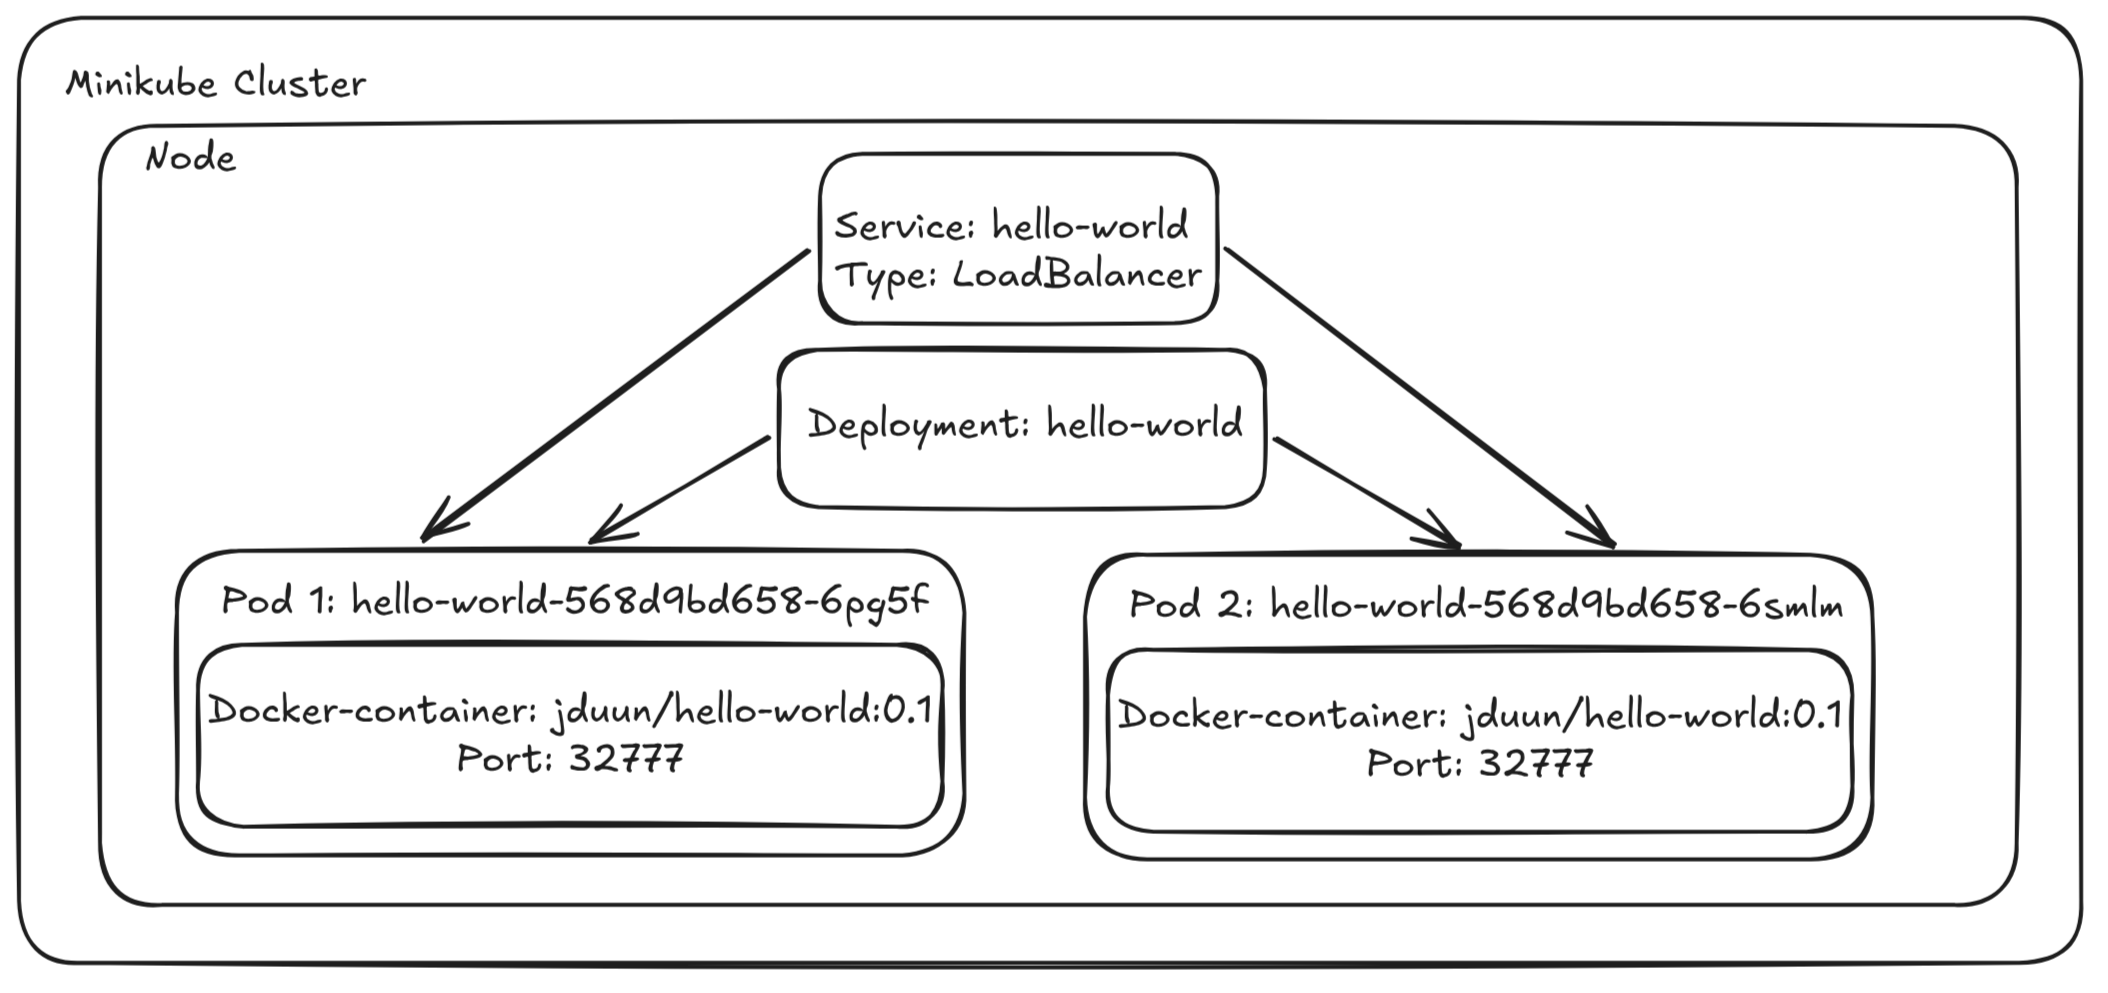
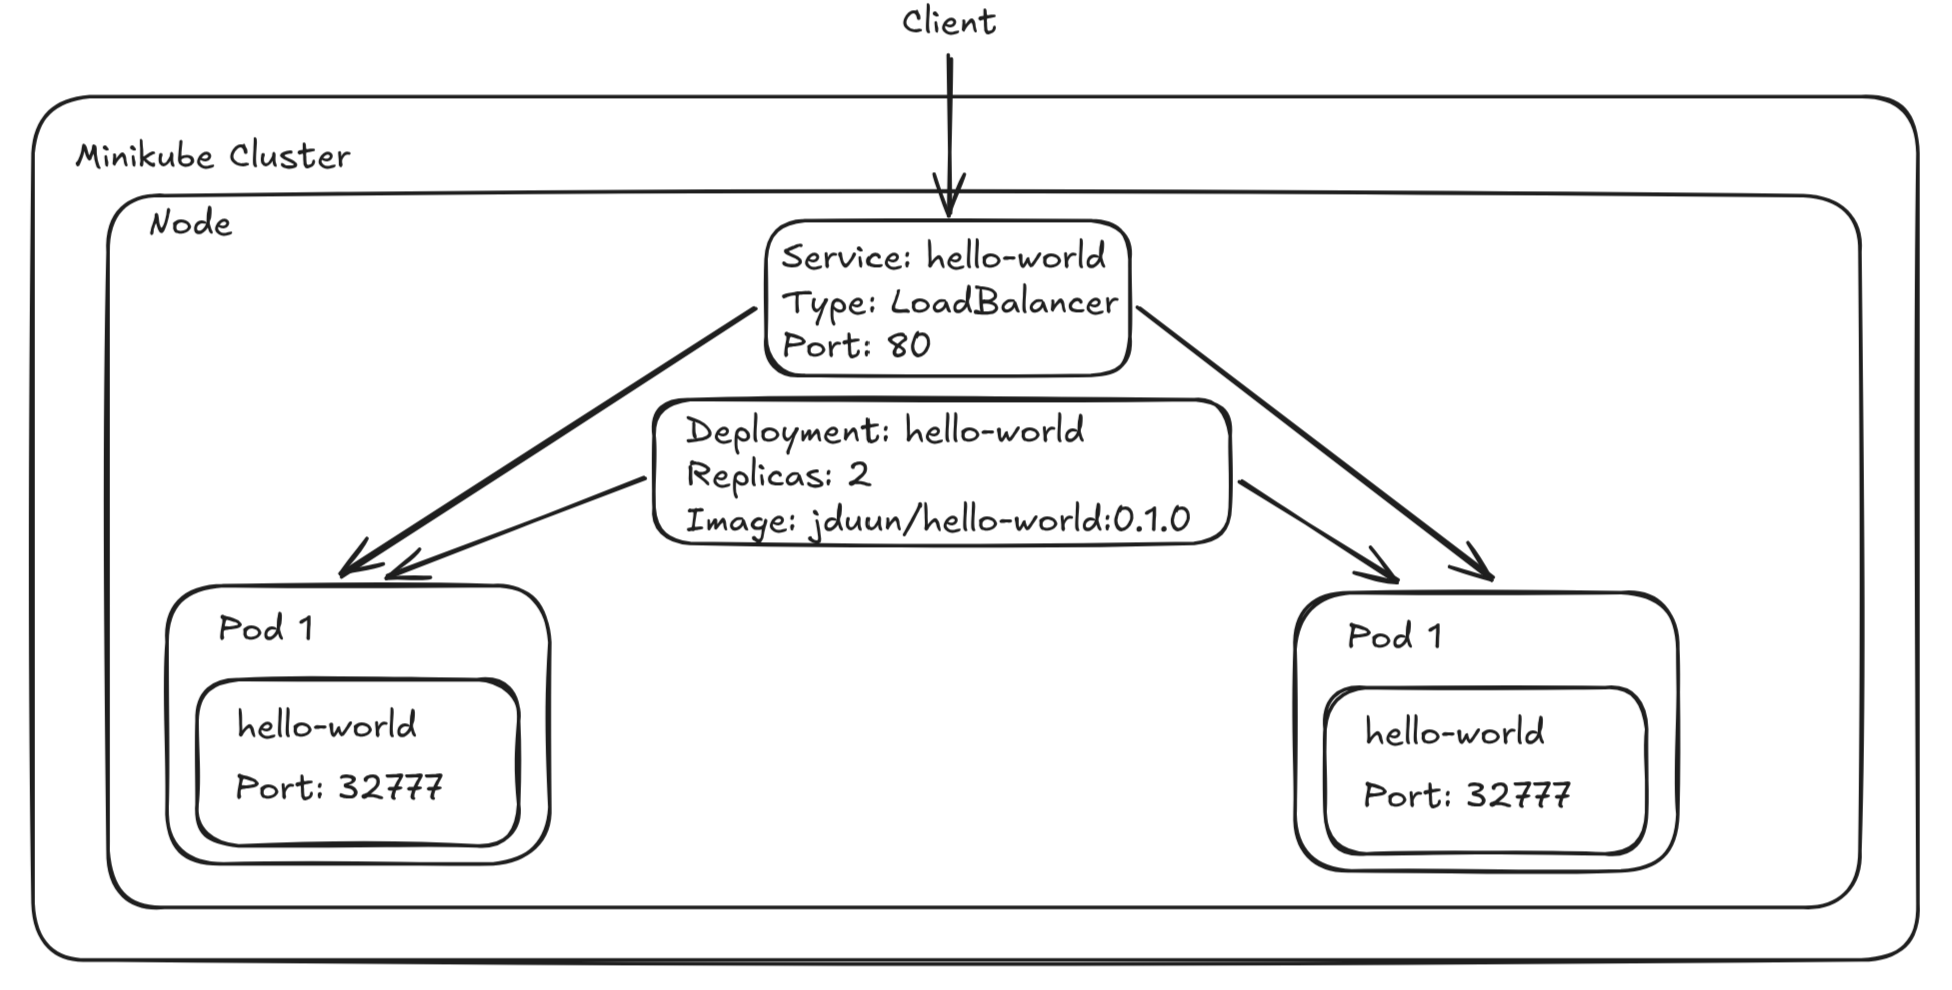
add: helm chart

diff --git a/main.go b/main.go
@@ -20,6 +20,15 @@ func main() {
 		})
 	}).Methods(http.MethodGet)
 
+	app.HandleFunc("/ready", func(w http.ResponseWriter, r *http.Request) {
+		w.Header().Set("Content-Type", "application/json")
+		w.WriteHeader(http.StatusOK)
+
+		_ = json.NewEncoder(w).Encode(map[string]string{
+			"status": "ok",
+		})
+	}).Methods(http.MethodGet)
+
 	app.HandleFunc("/health", func(w http.ResponseWriter, r *http.Request) {
 		w.Header().Set("Content-Type", "application/json")
 		w.WriteHeader(http.StatusOK)

diff --git a/README.md b/README.md
@@ -1,53 +1,116 @@
 # devops-lab
 
-Поднимем простой веб-сервис в Minikube кластере с 2 репликами. Docker-образ приложения на Docker Hub: https://hub.docker.com/r/jduun/hello-world.
+Поднимем `hello-world` сервис на Go в Minikube кластере с 2 репликами.
+
+## Docker-образ
+Docker-образ сервиса: https://hub.docker.com/r/jduun/hello-world.
+
+### Сборка
+```sh
+docker build --no-cache -t jduun/hello-world:0.1.0 .
+```
+
+### Публикация
+```sh
+docker login
+docker push jduun/hello-world:0.1.0
+```
+
+
+### Проверка на уязвимости
+```sh
+trivy image jduun/hello-world:0.1@sha256:1353ad931a4160a5d8047eff165545b75145628b26f0e4d7ecfa58bfa660bd42
+```
+
+## API приложения
+
+### `GET /`
+#### Описание
+Основной эндпоинт сервиса.
+
+#### Ответ
+Статус: `200 OK`
+
+```json
+{
+  "message": "Hello World"
+}
+```
+
+### `GET /ready`
+#### Описание
+Проверка готовности сервиса.
+
+#### Ответ
+Статус: `200 OK`
+
+```json
+{
+  "status": "ok"
+}
+```
+
+
+### `GET /health`
+#### Описание
+Проверка работоспособности приложения.
+
+#### Ответ
+Статус: `200 OK`
+
+```json
+{
+  "status": "ok"
+}
+```
 
 ## Запуск в Minikube
 
-### 1. Запуск Minikube кластера
+### Запуск Minikube кластера
 ```sh
 minikube start
 ```
 
-### 2. Фикс проблемы с DNS
+### Просмотр сгенерированных манифестов
 ```sh
-minikube ssh -- "sudo sh -c 'printf \"nameserver 1.1.1.1\nnameserver 8.8.8.8\n\" > /etc/resolv.conf'"
+helm template prod ./charts/hello-world
 ```
 
-### 3. Применяем манифесты
+### Установка Helm chart
 ```sh
-kubectl apply -f k8s/
+helm upgrade --install prod ./charts/hello-world
 ```
 
-### 4. Проверяем установку
+### Проверяем установку
 ```sh
 kubectl get deploy,pods,svc
 ```
 
-### 5. Проброс портов
+### Проброс портов
 ```sh
 minikube tunnel
 ```
 
-### 6. Получаем `EXTERNAL-IP`  
+### Получаем `EXTERNAL-IP`
 ```sh
-kubectl get svc hello-world
+kubectl get svc prod-hello-world
 ```
 
-### 7. Запрос к сервису
+### Запрос к сервису
 ```sh
-curl "http://<EXTERNAL-IP>:32777"
+curl "http://<EXTERNAL-IP>:80"
 ```
 Или переходим в браузере по этой ссылке.
 
+### Удаление релиза
+```sh
+helm uninstall prod
+```
+
 ## Результаты
 
-### Скриншоты
-![screen1.png](images/screen1.png)
-
-![screen2.png](images/screen2.png)
-
-![screen3.png](images/screen3.png)
+### Скриншот
+![screen.png](images/screen.png)
 
 ### Схема Minikube-кластера
 
